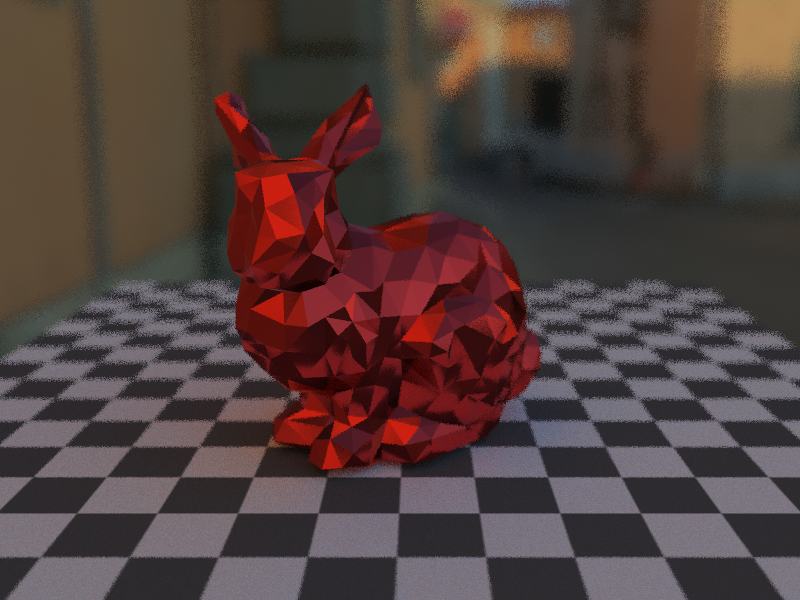
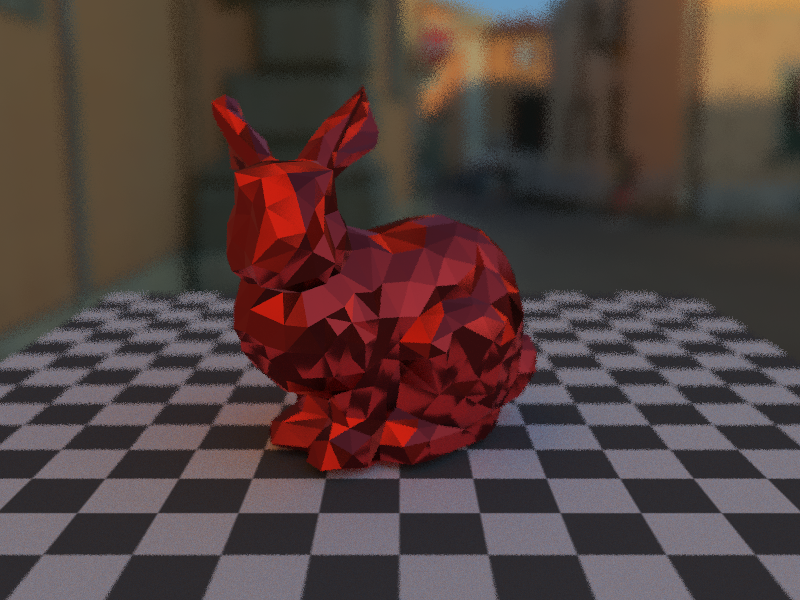
Add Lens shape: Circle (total 26.066 sec.)

diff --git a/src/camera.rs b/src/camera.rs
@@ -9,8 +9,8 @@ pub struct Camera {
     // カメラの位置
     pub eye: Vector3,
 
-    // カメラのターゲット
-    pub forward: Vector3,
+    // レンズ形状
+    pub lens_shape: LensShape,
 
     // レンズの半径
     pub lens_radius: f64,
@@ -21,10 +21,17 @@ pub struct Camera {
     // 焦点面の基底ベクトル（正規化されている）
     pub right: Vector3,
     pub up: Vector3,
+    pub forward: Vector3,
 
     // 焦点面の基底ベクトル（スクリーンの半分の大きさを乗算済み）
     pub plane_half_right: Vector3,
     pub plane_half_up: Vector3,
+}
+
+#[derive(Debug)]
+pub enum LensShape {
+    Square,
+    Circle,
 }
 
 #[derive(Clone, Debug)]
@@ -34,7 +41,8 @@ pub struct Ray {
 }
 
 impl Camera {
-    pub fn new(eye: Vector3, target: Vector3, y_up: Vector3, v_fov: f64, aperture: f64, focus_distance: f64) -> Camera {
+    pub fn new(eye: Vector3, target: Vector3, y_up: Vector3, v_fov: f64,
+               lens_shape: LensShape, aperture: f64, focus_distance: f64) -> Camera {
         let lens_radius = 0.5 * aperture;
         let plane_half_height = v_fov.to_radians().tan();
         let forward = (target - eye).normalize();
@@ -43,6 +51,7 @@ impl Camera {
 
         Camera {
             eye: eye,
+            lens_shape: lens_shape,
             lens_radius: lens_radius,
             focus_distance: focus_distance,
             forward: forward,
@@ -53,13 +62,25 @@ impl Camera {
         }
     }
 
-    fn sample_square(mut rng: &mut ThreadRng) -> Vector2 {
-        let (u, v) = rng.gen::<(f64, f64)>();
-        Vector2::new(u + 0.5, v + 0.5)
+    fn sample_on_lens(&self, mut rng: &mut ThreadRng) -> Vector2 {
+        loop {
+            let (u, v) = rng.gen::<(f64, f64)>();
+            let square = Vector2::new(2.0 * u - 1.0, 2.0 * v - 1.0);
+            match self.lens_shape {
+                LensShape::Square => {
+                    return square;
+                },
+                LensShape::Circle => {
+                    if square.norm() < 1.0 {
+                        return square;
+                    }
+                }
+            }
+        }
     }
 
     pub fn ray_with_dof(&self, normalized_coord: &Vector2, rng: &mut ThreadRng) -> Ray {
-        let lens_uv = Camera::sample_square(rng) * self.lens_radius;
+        let lens_uv = self.sample_on_lens(rng) * self.lens_radius;
         let lens_pos = self.right * lens_uv.x + self.up * lens_uv.y;
 
         Ray {

diff --git a/src/main.rs b/src/main.rs
@@ -22,7 +22,7 @@ mod bvh;
 use vector::Vector3;
 use matrix::Matrix44;
 use scene::{Scene, Sphere, AxisAlignedBoundingBox, Mesh, BvhMesh, Skybox};
-use camera::Camera;
+use camera::{Camera, LensShape};
 use material::{Material, SurfaceType};
 use texture::Texture;
 use renderer::{Renderer, DebugRenderer, PathTracingRenderer};
@@ -39,7 +39,9 @@ fn render() {
         Vector3::new(0.0, 1.0, 0.0),// target
         Vector3::new(0.0, 1.0, 0.0),// y_up
         20.0,// fov
-        0.3,// aperture
+
+        LensShape::Circle,// lens shape
+        0.15,// aperture
         6.5// focus_distance
     );
 
